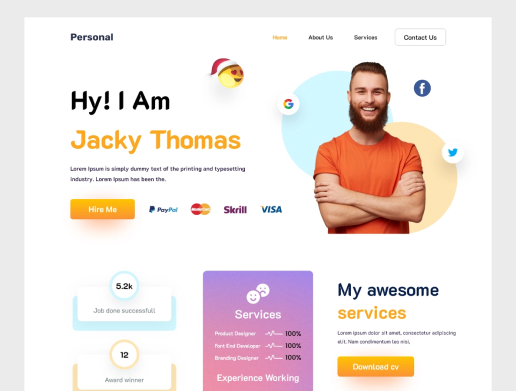
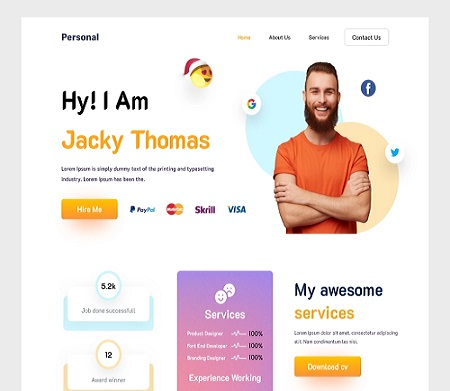
mudando background para background-image

diff --git a/styles/responsive.css b/styles/responsive.css
@@ -359,7 +359,7 @@
       width: 100%;
       height: 100%;
       background-size: cover;
-      background-repeat: no-repeat;
+      /* background-repeat: no-repeat; */
       /* background-attachment: fixed; */
     }
 
